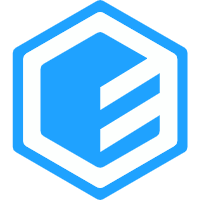
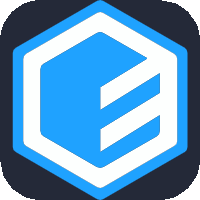
更新图标样式

diff --git a/README.md b/README.md
@@ -10,56 +10,60 @@
 
 ------
 
-### 🛠 **Technical Skills**
+### 🎯 **Technical Stack**
 
-<table align="center" style="border-collapse: collapse; width: 90%;">
+<table align="center">
   <tr>
-    <th style="padding: 10px;">🎯 Category</th>
-    <th style="padding: 10px;">🔧 Technologies</th>
-  </tr>
-  
-  <tr>
-    <td style="padding: 10px; font-weight: bold;">🗣 Languages</td>
-    <td style="padding: 10px;">
-      <img src="https://raw.githubusercontent.com/devicons/devicon/master/icons/python/python-original.svg" alt="Python" height="30" />
-      <img src="https://raw.githubusercontent.com/devicons/devicon/master/icons/c/c-original.svg" alt="C" height="30" />
-      <img src="https://raw.githubusercontent.com/devicons/devicon/master/icons/cplusplus/cplusplus-original.svg" alt="C++" height="30" />
-      <img src="https://raw.githubusercontent.com/devicons/devicon/master/icons/html5/html5-original.svg" alt="HTML5" height="30" />
-      <img src="https://raw.githubusercontent.com/devicons/devicon/master/icons/css3/css3-original.svg" alt="CSS3" height="30" />
-      <img src="https://raw.githubusercontent.com/devicons/devicon/master/icons/javascript/javascript-original.svg" alt="JavaScript" height="30" />
-      <img src="https://raw.githubusercontent.com/devicons/devicon/master/icons/typescript/typescript-original.svg" alt="TypeScript" height="30" />
+    <td>
+      <h4>🎨 Frontend</h4>
+    </td>
+    <td>
+      <div>
+        <img src="https://raw.githubusercontent.com/tandpfun/skill-icons/main/icons/TypeScript.svg" width="40" title="TypeScript"/>
+        <img src="https://raw.githubusercontent.com/tandpfun/skill-icons/main/icons/VueJS-Dark.svg" width="40" title="VueJS"/>
+        <img src="https://raw.githubusercontent.com/tandpfun/skill-icons/main/icons/Pinia-Dark.svg" width="40" title="Pinia"/>
+        <img src="https://raw.githubusercontent.com/tandpfun/skill-icons/main/icons/TailwindCSS-Dark.svg" width="40" title="TailwindCSS"/>
+        <img src="https://raw.githubusercontent.com/Yang-ZhiHang/Yang-ZhiHang/main/assets/element.png" width="40" title="Element Plus"/>
+      </div>
     </td>
   </tr>
-  
+
   <tr>
-    <td style="padding: 10px; font-weight: bold;">⚙ Frameworks & Libraries</td>
-    <td style="padding: 10px;">
-      <img src="https://www.vectorlogo.zone/logos/opencv/opencv-icon.svg" alt="OpenCV" height="30" />
-      <img src="https://raw.githubusercontent.com/Yang-ZhiHang/Yang-ZhiHang/main/assets/langchain.png" alt="LangChain" height="30" />
-      <img src="https://raw.githubusercontent.com/Yang-ZhiHang/Yang-ZhiHang/main/assets/flask.png" alt="Flask" height="30" />
-      <img src="https://raw.githubusercontent.com/devicons/devicon/master/icons/qt/qt-original.svg" alt="PyQt" height="30" />
-      <img src="https://raw.githubusercontent.com/Yang-ZhiHang/Yang-ZhiHang/main/assets/pyinstaller.png" alt="PyInstaller" height="30" />
-      <img src="https://raw.githubusercontent.com/devicons/devicon/master/icons/vuejs/vuejs-original.svg" alt="Vue.js" height="30" />
-      <img src="https://www.vectorlogo.zone/logos/lesscss/lesscss-icon.svg" alt="Less" height="30" />
-      <img src="https://raw.githubusercontent.com/Yang-ZhiHang/Yang-ZhiHang/main/assets/element.png" alt="Element" height="30" />
+    <td>
+      <h4>⚡ Backend</h4>
+    </td>
+    <td>
+      <div>
+        <img src="https://raw.githubusercontent.com/tandpfun/skill-icons/main/icons/Flask-Dark.svg" width="40" title="Flask"/>
+      </div>
     </td>
   </tr>
-  
+
   <tr>
-    <td style="padding: 10px; font-weight: bold;">💾 Database</td>
-    <td style="padding: 10px;">
-      <img src="https://www.vectorlogo.zone/logos/mysql/mysql-official.svg" alt="MySQL" height="30" />
+    <td>
+      <h4>💾 Database</h4>
+    </td>
+    <td>
+      <div>
+        <img src="https://raw.githubusercontent.com/tandpfun/skill-icons/main/icons/MySQL-Dark.svg" width="40" title="MySQL"/>
+      </div>
     </td>
   </tr>
-  
+
   <tr>
-    <td style="padding: 10px; font-weight: bold;">🛠 Tools</td>
-    <td style="padding: 10px;">
-      <img src="https://raw.githubusercontent.com/devicons/devicon/master/icons/git/git-original.svg" alt="Git" height="30" />
-      <img src="https://raw.githubusercontent.com/devicons/devicon/master/icons/vim/vim-original.svg" alt="Vim" height="30" />
-      <img src="https://www.vectorlogo.zone/logos/nginx/nginx-icon.svg" alt="Nginx" height="30" />
-      <img src="https://raw.githubusercontent.com/devicons/devicon/master/icons/docker/docker-original.svg" alt="Docker" height="30" />
+    <td>
+      <h4>⚙ Others</h4>
+    </td>
+    <td>
+      <div>
+        <img src="https://raw.githubusercontent.com/tandpfun/skill-icons/main/icons/OpenCV-Dark.svg" width="40" title="OpenCV"/>
+        <img src="https://raw.githubusercontent.com/tandpfun/skill-icons/main/icons/Git.svg" width="40" title="Git"/>
+        <img src="https://raw.githubusercontent.com/tandpfun/skill-icons/main/icons/VIM-Dark.svg" width="40" title="Vim"/>
+        <img src="https://raw.githubusercontent.com/tandpfun/skill-icons/main/icons/QT-Dark.svg" width="40" title="QT"/>
+        <img src="https://raw.githubusercontent.com/tandpfun/skill-icons/main/icons/Nginx.svg" width="40" title="Nginx"/>
+        <img src="https://raw.githubusercontent.com/tandpfun/skill-icons/main/icons/Docker.svg" width="40" title="Docker"/>
+      </div>
     </td>
   </tr>
+
 </table>
-
